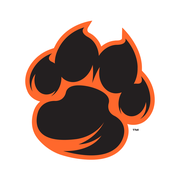
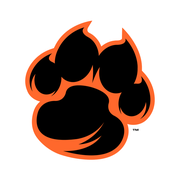
Use brand-guide web black (#000000) and neutral gray tints
Replaces the warm print black (#231F20) and brown-tinted grays with the
guide's web colors, and converts the Tiger Paw art and favicons to #000000.

Claude-Session: https://claude.ai/code/session_01VTRH8qDDUrhTwf1GYbh44A

Changed region(s): [[0.1667, 0.1389, 0.8333, 0.8611]]

diff --git a/assets/css/site.css b/assets/css/site.css
@@ -3,13 +3,12 @@
    Colors and fonts come only from the WDMCS brand guide (Activities system). */
 :root {
   --orange: #FF6720;      /* PMS 165 — WDMCS Orange */
-  --ink: #231F20;         /* School black as printed in the guide */
-  --black: #000000;
+  --ink: #000000;         /* Black — web color from the brand guide */
   --paper: #FFFFFF;
-  --stone: #F1F0F0;       /* 25% grayscale family, warmed toward ink */
-  --rule: #D9D7D7;
-  --graphite: #4A4647;    /* 75% black */
-  --muted: #5F5B5C;
+  --stone: #F2F2F2;       /* light tint of black (grayscale spectrum) */
+  --rule: #D9D9D9;        /* light tint of black */
+  --graphite: #404040;    /* 75% black */
+  --muted: #404040;       /* 75% black */
 
   --display: "Roboto", "Arial Black", Arial, sans-serif;   /* approved display: Roboto Black */
   --body: "Source Sans 3", "Source Sans Pro", Arial, sans-serif; /* approved copy font */
@@ -97,7 +96,7 @@ p { margin: 0; max-width: 65ch; }
 }
 .hero .wrap { position: relative; display: grid; grid-template-columns: minmax(0, 1.5fr) minmax(0, 1fr); align-items: center; gap: 2rem; padding-block: clamp(3rem, 8vw, 6rem); }
 .hero-copy { display: grid; gap: 1.25rem; min-width: 0; }
-.hero .lede { color: #E4E2E2; }
+.hero .lede { color: #FFFFFF; }
 .hero-mark { justify-self: center; width: min(320px, 70%); filter: drop-shadow(0 12px 30px rgba(0,0,0,.35)); }
 .hero-sm .wrap { grid-template-columns: 1fr; padding-block: clamp(2.5rem, 6vw, 4rem); }
 .hero-sm::before { background: linear-gradient(118deg, transparent 0 74%, var(--orange) 74% 84%, var(--paper) 84% 84.5%, transparent 84.5%); }
@@ -135,7 +134,7 @@ p { margin: 0; max-width: 65ch; }
 .stamp { background: var(--ink); color: var(--paper); text-align: center; border-radius: var(--radius); overflow: hidden; font-family: var(--display); }
 .stamp .m { display: block; background: var(--orange); color: var(--ink); font-weight: 700; font-size: .75rem; letter-spacing: .2em; padding: .3rem 0; text-transform: uppercase; }
 .stamp .d { display: block; font-weight: 900; font-size: 2.2rem; line-height: 1; padding: .45rem 0 .1rem; font-variant-numeric: tabular-nums; }
-.stamp .w { display: block; font-size: .72rem; letter-spacing: .18em; padding-bottom: .45rem; color: #CFCCCC; text-transform: uppercase; }
+.stamp .w { display: block; font-size: .72rem; letter-spacing: .18em; padding-bottom: .45rem; color: #BFBFBF; text-transform: uppercase; }
 .event-body { display: grid; gap: .35rem; min-width: 0; }
 .event-meta { display: flex; flex-wrap: wrap; gap: .25rem 1rem; color: var(--muted); font-size: 1rem; font-weight: 600; }
 .event-actions { display: flex; flex-wrap: wrap; gap: .5rem 1rem; margin-top: .25rem; }
@@ -182,7 +181,7 @@ p { margin: 0; max-width: 65ch; }
 /* ---------- Ways to help ---------- */
 .way { display: grid; gap: .75rem; align-content: start; }
 .way .num { font: 900 2.6rem var(--display); line-height: 1; color: var(--orange); }
-.band-ink .way p { color: #E4E2E2; }
+.band-ink .way p { color: #FFFFFF; }
 .signup-list { list-style: none; padding: 0; margin: 0; display: grid; gap: .5rem; }
 .signup-list a { display: flex; justify-content: space-between; gap: 1rem; padding: .9rem 1rem; background: var(--stone); border-radius: var(--radius); text-decoration: none; font-weight: 600; }
 .signup-list a:hover { background: var(--orange); }
@@ -208,6 +207,6 @@ details.faq p { margin-top: .75rem; }
 .site-footer img { width: 84px; }
 .site-footer h2 { font-size: .8rem; letter-spacing: .3em; color: var(--orange); margin-bottom: .75rem; }
 .site-footer ul { list-style: none; margin: 0; padding: 0; display: grid; gap: .35rem; }
-.site-footer .fine { grid-column: 1 / -1; border-top: 1px solid var(--graphite); padding-top: 1.25rem; font-size: .9rem; color: #BDB9BA; max-width: none; }
+.site-footer .fine { grid-column: 1 / -1; border-top: 1px solid var(--graphite); padding-top: 1.25rem; font-size: .9rem; color: #BFBFBF; max-width: none; }
 @media (max-width: 760px) { .site-footer .wrap { grid-template-columns: 1fr; } }
 .soon .tag, .event-body .tag { justify-self: start; }

diff --git a/get-involved.html b/get-involved.html
@@ -8,7 +8,7 @@
   <meta property="og:title" content="Get Involved | Western Hills Elementary PTO">
   <meta property="og:description" content="Volunteer, join a committee, come to a meeting, or donate to the Western Hills Elementary PTO.">
   <meta property="og:image" content="https://westernhillspto.com/assets/img/pto-logo.png">
-  <meta name="theme-color" content="#231F20">
+  <meta name="theme-color" content="#000000">
   <link rel="icon" type="image/png" sizes="32x32" href="assets/img/favicon-32.png">
   <link rel="icon" type="image/png" sizes="256x256" href="assets/img/favicon-256.png">
   <link rel="apple-touch-icon" href="assets/img/apple-touch-icon.png">
@@ -94,7 +94,7 @@
           <h2>Donate</h2>
           <p>Every dollar goes back to Western Hills students and staff. Donations are made securely through our Zeffy page.</p>
           <div class="btn-row"><a class="btn btn-orange" id="donate-btn" href="#" target="_blank" rel="noopener" aria-disabled="true">Donate through Zeffy</a></div>
-          <p id="donate-note" class="empty" style="color:#BDB9BA">Online donations are coming soon.</p>
+          <p id="donate-note" class="empty" style="color:#BFBFBF">Online donations are coming soon.</p>
         </div>
         <div class="way">
           <span class="num">6</span>

diff --git a/index.html b/index.html
@@ -8,7 +8,7 @@
   <meta property="og:title" content="Western Hills Elementary PTO">
   <meta property="og:description" content="The Western Hills Elementary PTO plans events, supports teachers and funds programs for students at Western Hills Elementary in West Des Moines.">
   <meta property="og:image" content="https://westernhillspto.com/assets/img/pto-logo.png">
-  <meta name="theme-color" content="#231F20">
+  <meta name="theme-color" content="#000000">
   <link rel="icon" type="image/png" sizes="32x32" href="assets/img/favicon-32.png">
   <link rel="icon" type="image/png" sizes="256x256" href="assets/img/favicon-256.png">
   <link rel="apple-touch-icon" href="assets/img/apple-touch-icon.png">

diff --git a/about.html b/about.html
@@ -8,7 +8,7 @@
   <meta property="og:title" content="About Us | Western Hills Elementary PTO">
   <meta property="og:description" content="Meet the 2026–27 Western Hills Elementary PTO executive board and learn how the PTO works.">
   <meta property="og:image" content="https://westernhillspto.com/assets/img/pto-logo.png">
-  <meta name="theme-color" content="#231F20">
+  <meta name="theme-color" content="#000000">
   <link rel="icon" type="image/png" sizes="32x32" href="assets/img/favicon-32.png">
   <link rel="icon" type="image/png" sizes="256x256" href="assets/img/favicon-256.png">
   <link rel="apple-touch-icon" href="assets/img/apple-touch-icon.png">

diff --git a/committees.html b/committees.html
@@ -8,7 +8,7 @@
   <meta property="og:title" content="Committees | Western Hills Elementary PTO">
   <meta property="og:description" content="The committees of the Western Hills Elementary PTO, what each one does, and who leads it.">
   <meta property="og:image" content="https://westernhillspto.com/assets/img/pto-logo.png">
-  <meta name="theme-color" content="#231F20">
+  <meta name="theme-color" content="#000000">
   <link rel="icon" type="image/png" sizes="32x32" href="assets/img/favicon-32.png">
   <link rel="icon" type="image/png" sizes="256x256" href="assets/img/favicon-256.png">
   <link rel="apple-touch-icon" href="assets/img/apple-touch-icon.png">

diff --git a/resources.html b/resources.html
@@ -8,7 +8,7 @@
   <meta property="og:title" content="Resources | Western Hills Elementary PTO">
   <meta property="og:description" content="Documents, links and answers to common questions about the Western Hills Elementary PTO.">
   <meta property="og:image" content="https://westernhillspto.com/assets/img/pto-logo.png">
-  <meta name="theme-color" content="#231F20">
+  <meta name="theme-color" content="#000000">
   <link rel="icon" type="image/png" sizes="32x32" href="assets/img/favicon-32.png">
   <link rel="icon" type="image/png" sizes="256x256" href="assets/img/favicon-256.png">
   <link rel="apple-touch-icon" href="assets/img/apple-touch-icon.png">

diff --git a/events.html b/events.html
@@ -8,7 +8,7 @@
   <meta property="og:title" content="Events | Western Hills Elementary PTO">
   <meta property="og:description" content="PTO meetings, family events and fundraisers at Western Hills Elementary this school year.">
   <meta property="og:image" content="https://westernhillspto.com/assets/img/pto-logo.png">
-  <meta name="theme-color" content="#231F20">
+  <meta name="theme-color" content="#000000">
   <link rel="icon" type="image/png" sizes="32x32" href="assets/img/favicon-32.png">
   <link rel="icon" type="image/png" sizes="256x256" href="assets/img/favicon-256.png">
   <link rel="apple-touch-icon" href="assets/img/apple-touch-icon.png">

diff --git a/404.html b/404.html
@@ -9,7 +9,7 @@
   <meta property="og:title" content="Page not found | Western Hills Elementary PTO">
   <meta property="og:description" content="This page could not be found.">
   <meta property="og:image" content="https://westernhillspto.com/assets/img/pto-logo.png">
-  <meta name="theme-color" content="#231F20">
+  <meta name="theme-color" content="#000000">
   <link rel="icon" type="image/png" sizes="32x32" href="assets/img/favicon-32.png">
   <link rel="icon" type="image/png" sizes="256x256" href="assets/img/favicon-256.png">
   <link rel="apple-touch-icon" href="assets/img/apple-touch-icon.png">
